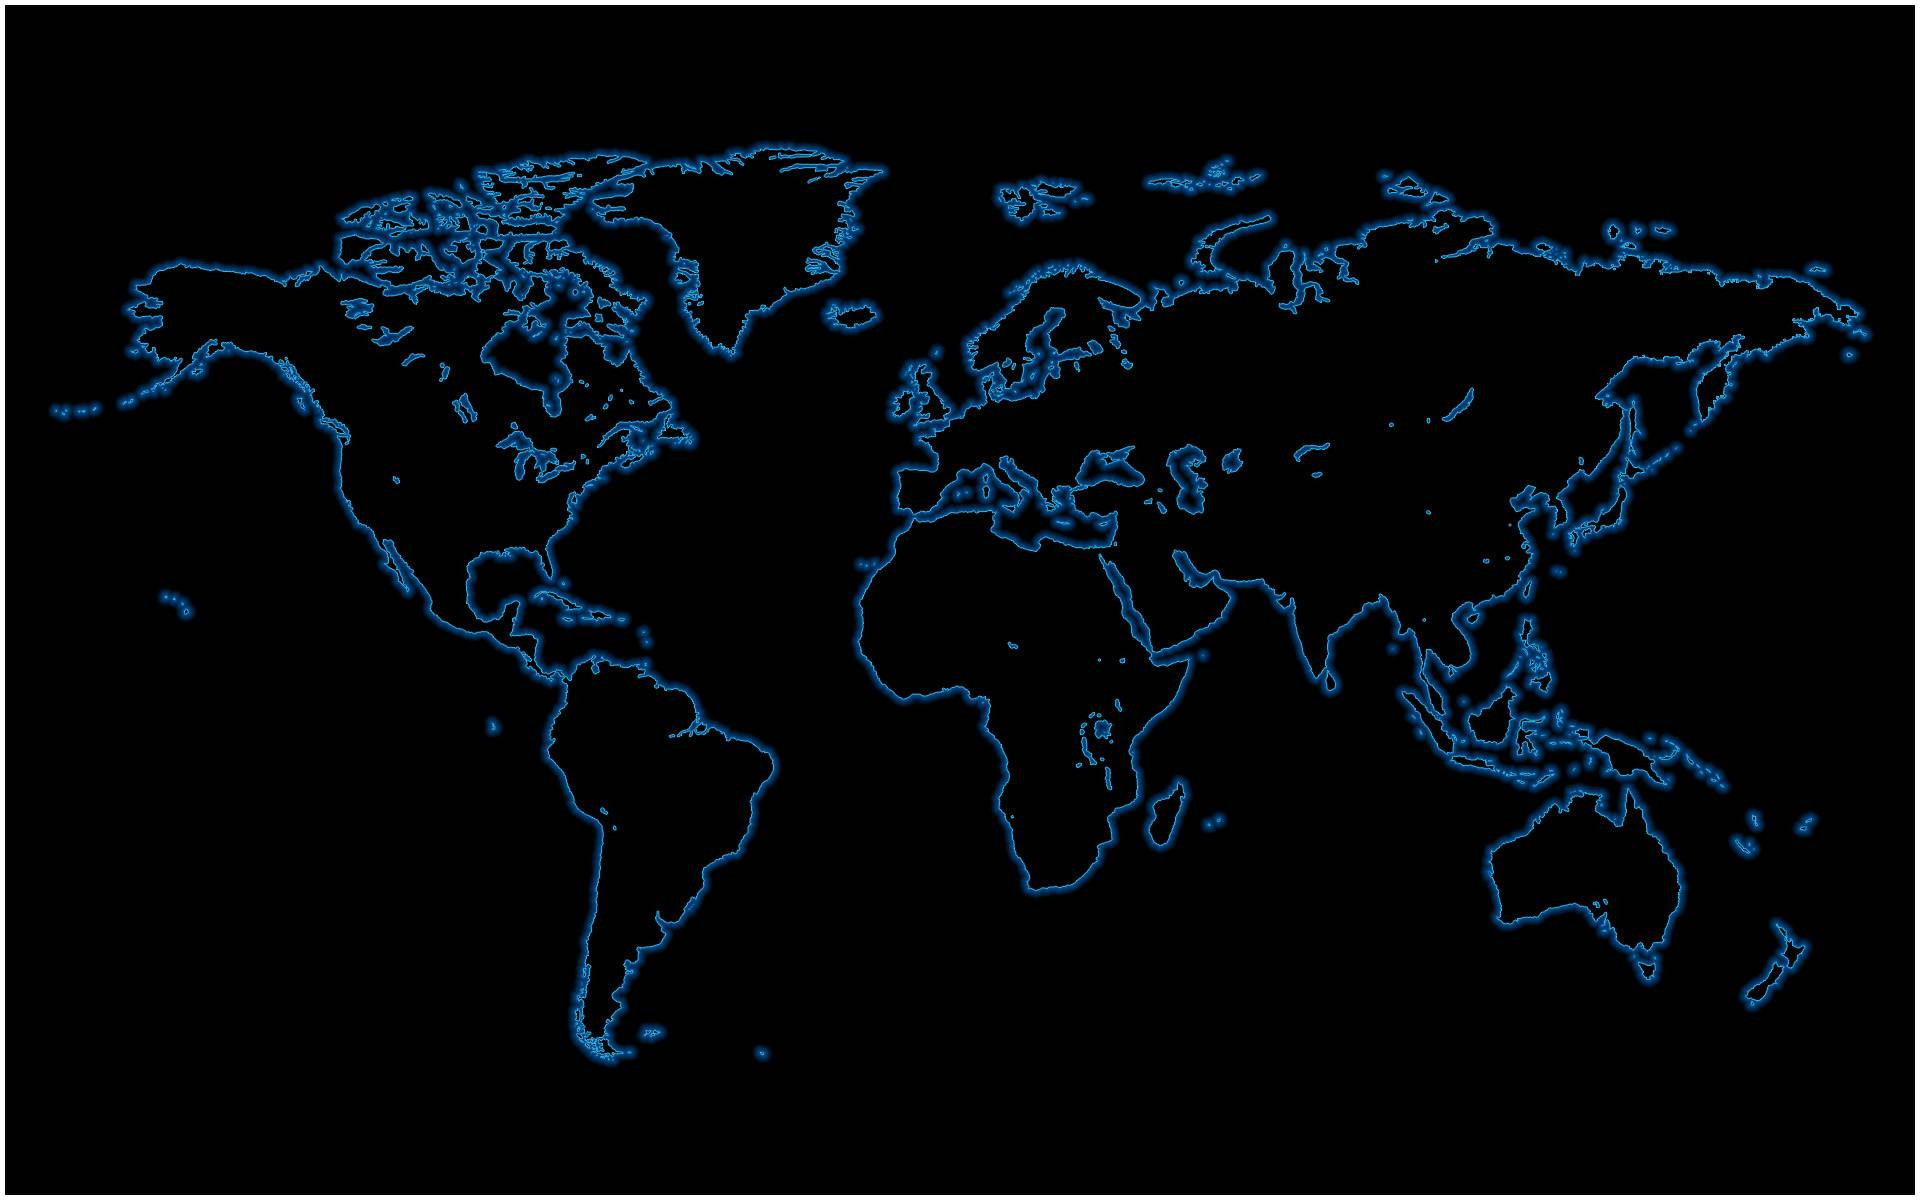
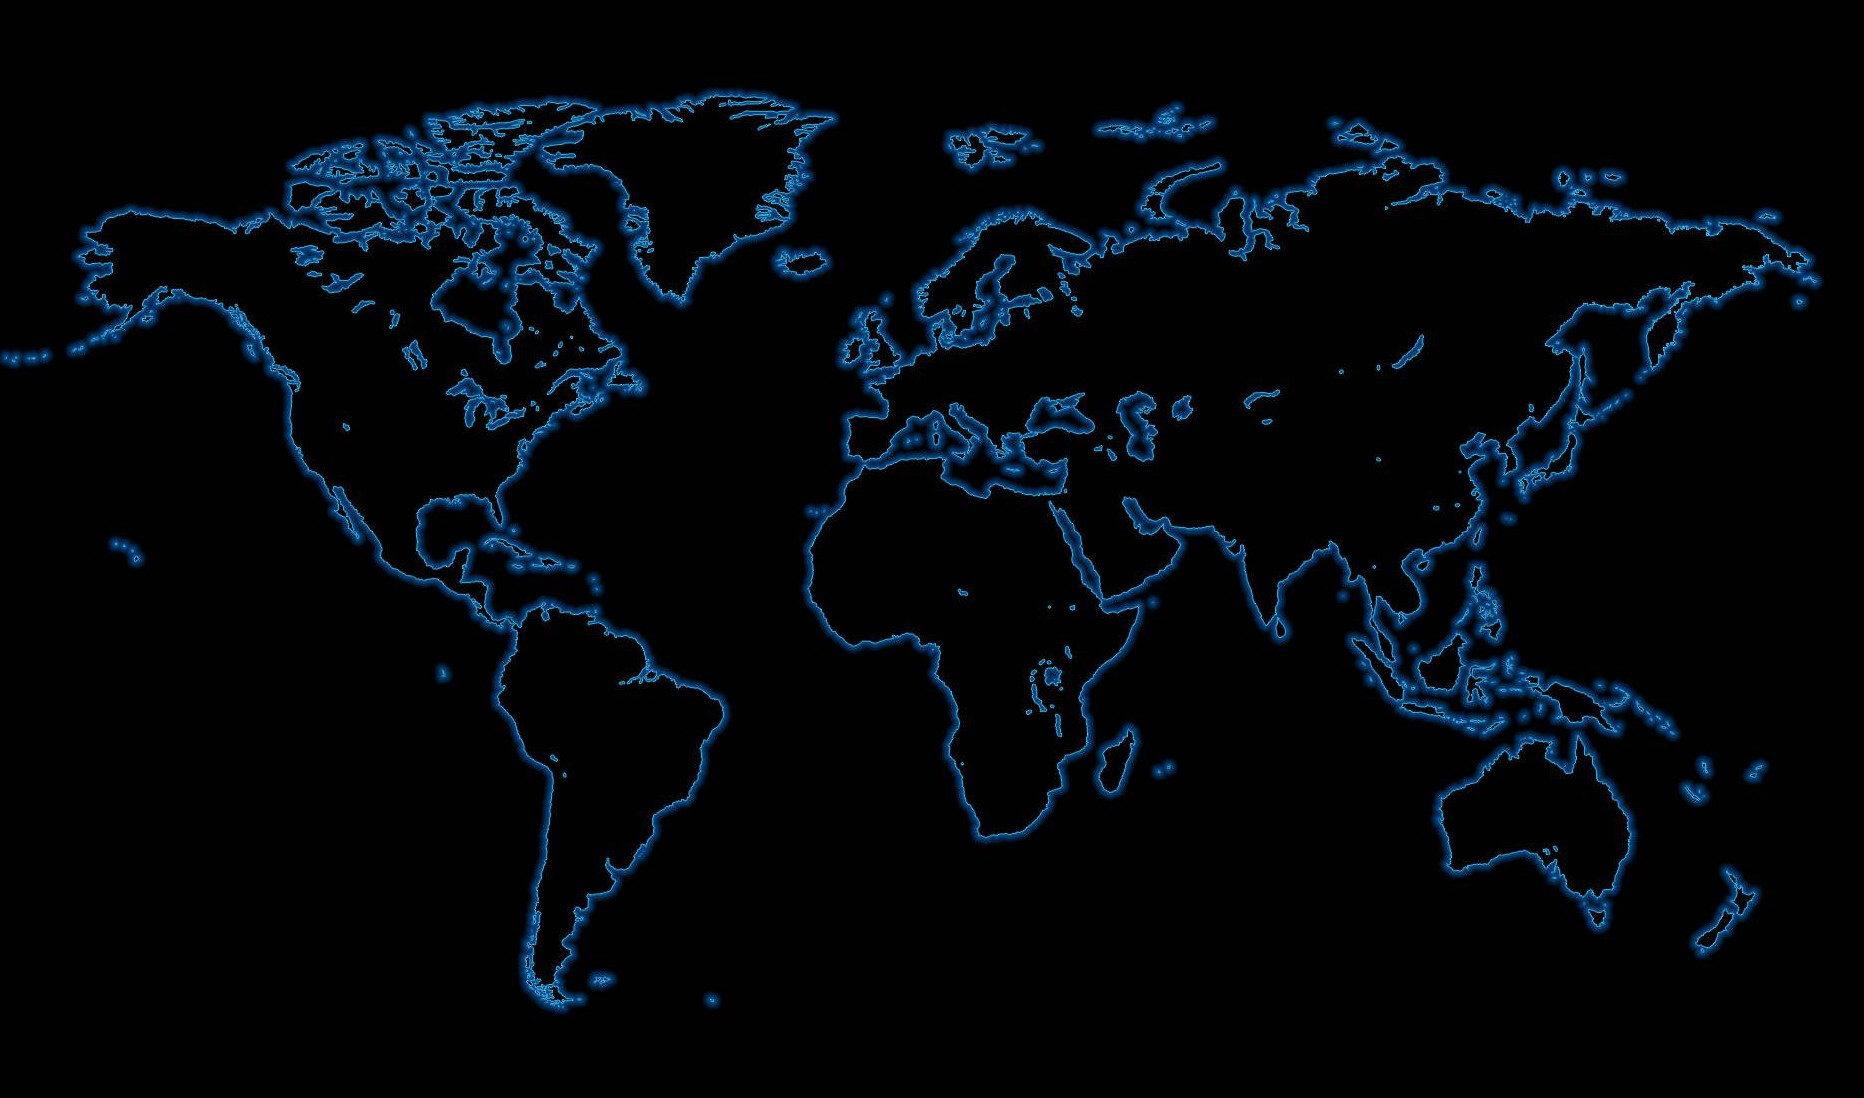
fixed win bug

diff --git a/src/components/Modal.js b/src/components/Modal.js
@@ -24,11 +24,11 @@ class Modal extends React.Component{
                 case "instructions":
                     text = <p className="text instructions">
                             <b>INSTRUCTIONS</b><br/><br/>
-                            Assemble the Avengers by <b>DRAG AND DROPPING</b> each unit into one of the Five Areas.<br/><br/>
-                            Only <b>3 UNITS</b> may be deployed to each zone.<br/><br/>
-                            Every unit will contribute <b>2-5 POINTS</b> to a battle. More powerful units contribute more points while weaker units contribute less.<br/><br/>
-                            To win a round, you must <b>WIN 3 BATTLES</b>. To win a battle, you must have a higher point total than Thanos's units.<br/><br/>
-                            Win <b>3 OF 5 ROUNDS</b> to defeat Thanos's Army and restore all life to the universe!
+                            Assemble the Avengers by <span className="green"><b>DRAG AND DROPPING</b></span> each unit into one of the Five Areas.<br/><br/>
+                            Only <span className="green"><b>3 UNITS</b></span> may be deployed to each zone.<br/><br/>
+                            Every unit will contribute <span className="green"><b>2-5 POINTS</b></span> to a battle. More powerful units contribute more points while weaker units contribute less.<br/><br/>
+                            To win a round, you must <span className="green"><b>WIN 3 BATTLES</b></span>. To win a battle, you must have a higher point total than Thanos's units.<br/><br/>
+                            Win <span className="green"><b>3 OF 5 ROUNDS</b></span> to defeat Thanos's Army and restore all life to the universe!
                         </p>
                     break;
                 default:
@@ -40,7 +40,7 @@ class Modal extends React.Component{
             this.state.wins < 3 && this.state.losses < 3 ? 
             text = <p className="modal-result">
                         You have <span class="red"><b>{this.state.previousGame}</b></span> this round of battles.<br/><br/>
-                        Redeploy your units and prepare for the next wave attack.<br/><br/>
+                        Redeploy your units and prepare for the next wave of attack.<br/><br/>
                         Click the <span className="blue"><b>DEPLOY</b></span> button when ready.
                         
                    </p>

diff --git a/src/stylesheets/index.css b/src/stylesheets/index.css
@@ -71,10 +71,10 @@ p {
 }
 
 .map {
-  background-image: url('http://www.wallpaperbetter.com/wallpaper/770/279/730/art-digital-art-map-world-map-black-1080P-wallpaper.jpg');
+  background-image: url('/img/mission_map.jpeg');
   background-repeat: no-repeat;
   /* background: #000000; */
-  background-size: 100%;
+  background-size: 110%;
   position: relative;
   width: 1300px;
   height: 750px;
@@ -99,10 +99,14 @@ p {
   size: 10px;
   /* margin: 10px; */
   padding-left: 5px;
+  padding-right: 5px;
+  padding-bottom: 5px;
+  overflow: scroll;
 }
 
 .undeployed-header {
-  font-size: 10px
+  font-size: 10px;
+  font-family: 'Orbitron', sans-serif;
 }
 
 .ud-container {
@@ -160,7 +164,8 @@ p {
 }
 
 .unit-undeployed:hover {
-  border-color: darkred;
+  border-color: red;
+  border-width: 2px; 
 }
 
 .unassigned {

diff --git a/src/App.js b/src/App.js
@@ -90,7 +90,7 @@ class App extends Component {
       })
       return
     }
-
+    
     const finish = destination.droppableId
     const startZone = Array.from(this.state[start])
     startZone.splice(source.index, 1)
@@ -191,7 +191,7 @@ class App extends Component {
       setTimeout(this.handleWin,1000)
     }
     else {
-      setTimeout(this.handleLoss,2000)
+      setTimeout(this.handleLoss,1000)
     }
   }
 
@@ -201,7 +201,7 @@ class App extends Component {
     this.setState({
       gamesWon: wins+1,
       showModal: true,
-      previouGame: "WON"
+      previousGame: "WON"
     })
   }
 

diff --git a/src/stylesheets/modal.css b/src/stylesheets/modal.css
@@ -12,6 +12,7 @@
     border-width: 1px;
     box-shadow: 0 4px 8px 0 rgba(0, 0, 0, 0.2), 0 6px 20px 0 rgba(0, 0, 0, 0.19);
     text-align: justify;
+    line-height: 1.4;
     
 }
 
@@ -25,7 +26,7 @@
 }
 
 .text{
-    font-size: 28px;
+    font-size: 22px;
     color: white;
     padding-left: 30px;
     padding-right: 30px;
@@ -42,7 +43,7 @@
 }
 
 .instructions{
-    font-size: 21px;
+    font-size: 16px;
 }
 
 .button{
@@ -75,4 +76,8 @@
 
 .blue{
     color: #0065b8;
+}
+
+.green {
+    color: lightgreen;
 }

diff --git a/src/containers/Undeployed.js b/src/containers/Undeployed.js
@@ -13,7 +13,7 @@ render(){
         ref={provided.innerRef}
         {...provided.droppableProps}
         >
-            <p className="undeployed-header">Undeployed Units</p>
+            <p className="undeployed-header">UNDEPLOYED UNITS</p>
             <div className="ud-container">
             {this.props.units.map((unit, index) => 
                 <Unit 
